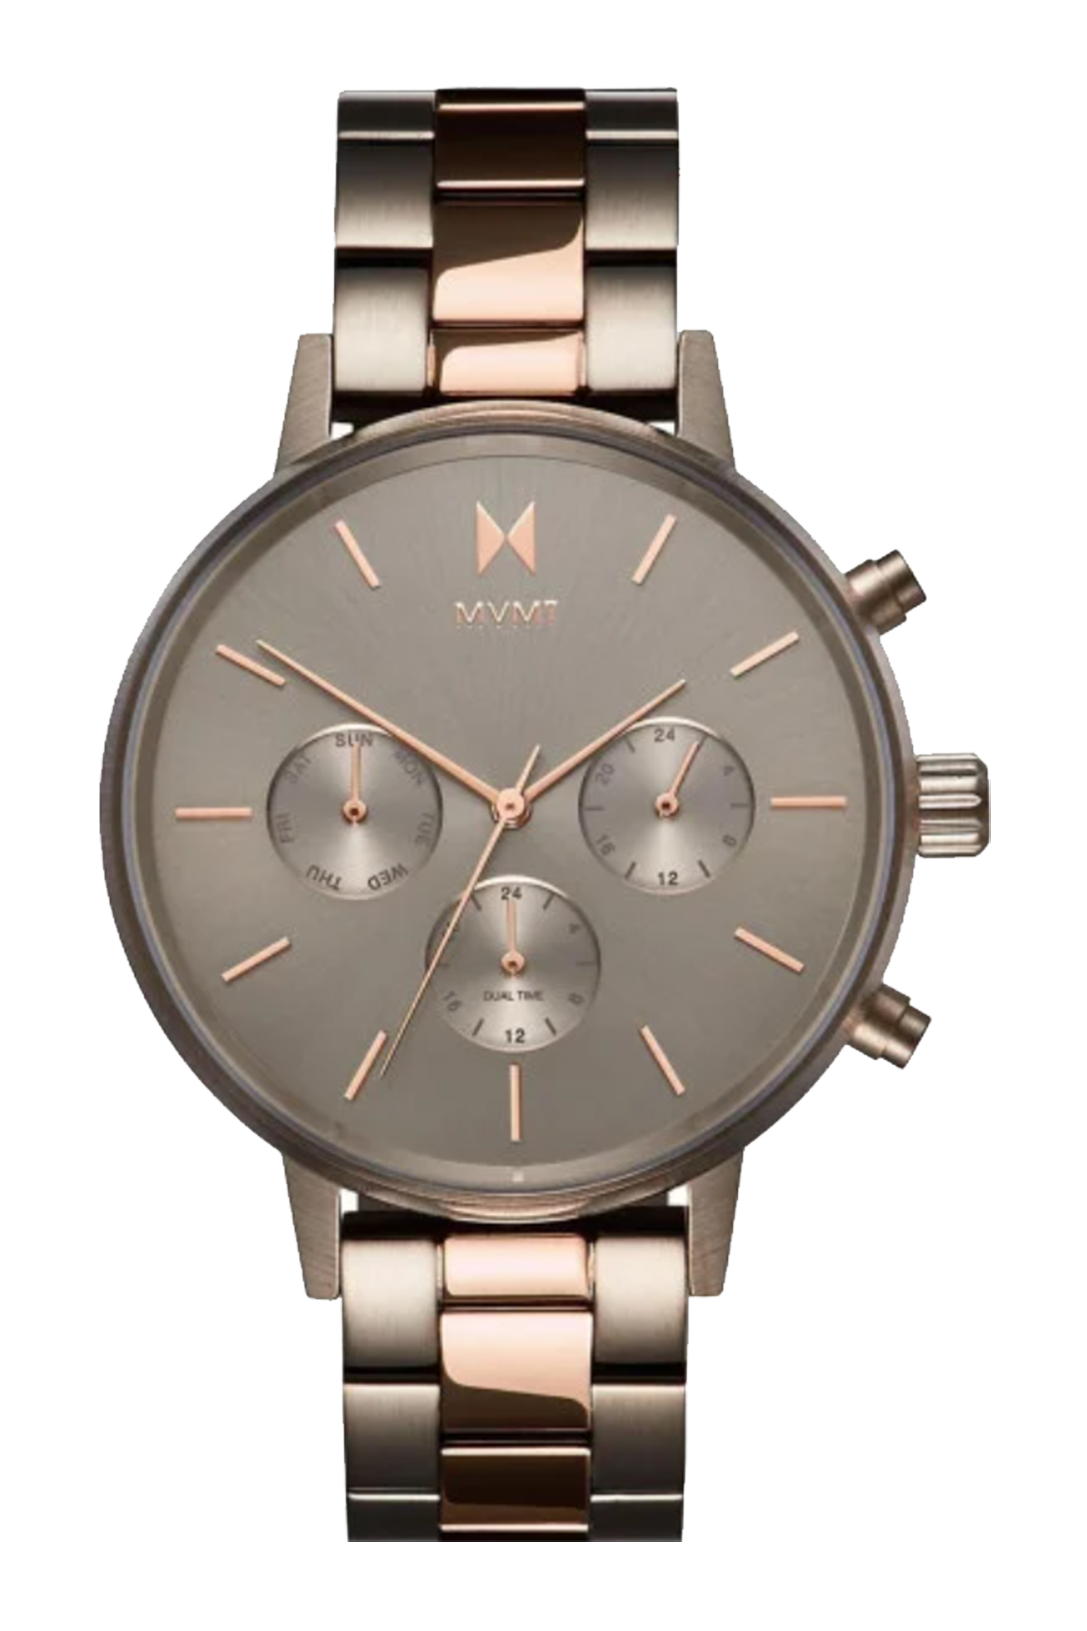
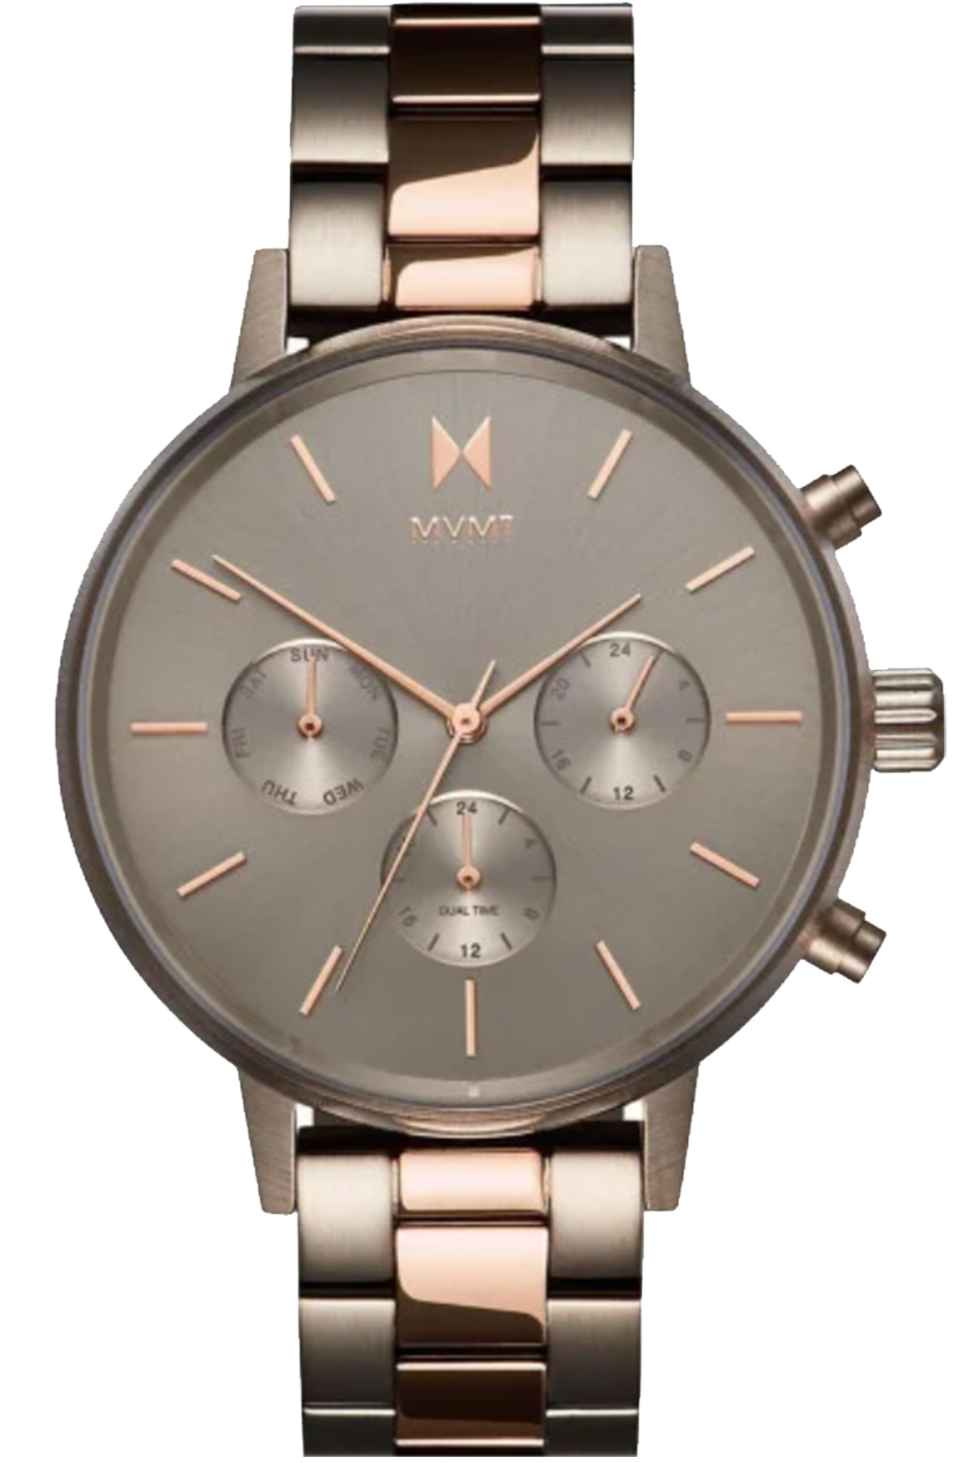
add respensive

diff --git a/src/App.jsx b/src/App.jsx
@@ -11,6 +11,9 @@ import wa from '../public/wa.jpg';
 import ri from '../public/ri.jpg';
 import { FontAwesomeIcon } from '@fortawesome/react-fontawesome';
 import { faChevronRight, faChevronLeft } from '@fortawesome/free-solid-svg-icons';
+import { faBars } from '@fortawesome/free-solid-svg-icons';
+import { faTimes } from '@fortawesome/free-solid-svg-icons';
+
 
 const App = () => {
     const [currentImageIndex, setCurrentImageIndex] = useState(0);
@@ -23,46 +26,40 @@ const App = () => {
     const handlePrevImage = () => {
         setCurrentImageIndex((prevIndex) => (prevIndex - 1 + watchImages.length) % watchImages.length);
     };
+    const [isNavOpen, setIsNavOpen] = useState(false);
+
+    const toggleNav = () => {
+        setIsNavOpen(!isNavOpen);
+    };
+
 
     return (
         <div className="min-h-screen bg-[#d1c9c1] flex flex-col items-center justify-center">
-            <header className="w-full max-w-screen-xl mx-auto flex justify-between items-center pt-8 pl-8 pr-8 pb-0">
-                <div className="text-2xl font-bold">MVMT™</div>
-                <nav className="space-x-14 text-base pr-8">
+            <header className="w-full max-w-screen-xl mx-auto flex flex-col sm:flex-row justify-between items-center pt-8 px-8 pb-0">
+                <div className="text-2xl font-bold mb-4 sm:mb-0">MVMT™</div>
+                <button onClick={toggleNav} className="sm:hidden">
+                    <FontAwesomeIcon icon={isNavOpen ? faTimes : faBars} size="lg" />
+                </button>
+                <nav className={`flex-col sm:flex-row sm:flex space-x-4 sm:space-x-14 text-base ${isNavOpen ? 'flex' : 'hidden'}`}>
                     <a href="#" className="hover:underline">Men</a>
                     <a href="#" className="hover:underline">Women</a>
                     <a href="#" className="hover:underline">Brand</a>
                 </nav>
             </header>
 
-            <main className="flex-1 w-full max-w-screen-xl mx-auto flex">
-                <div className="flex-1 flex flex-col justify-center text-left pl-8">
-                    <h1 className="text-[80px] font-light mb-2 text-[#534c46] text-left">Orion</h1>
-                    <p className="text-[#534c46] text-base mb-12 w-full max-w-[300px]">
-                        Rose gold second hand titanium and rose gold double plated stainless steel
-                    </p>
-                    <button className="flex items-center space-x-2 text-[#534c46] hover:text-gray-600 transition">
-                        <span className="text-base font-medium">Shop Now</span>
-                        <span>&rarr;</span>
-                    </button>
-                    <div className="flex items-center justify-start space-x-6 mt-20 mb-8">
-                        <button className="pr-6 py-2 text-[#534c46]">Rose</button>
-                        <button className="pr-6 py-2 text-[#333333]">Medium</button>
-                        <button className="pr-6 py-2 text-[#534c46]">Bronze</button>
-                    </div>
-                </div>
-
-                <div className="flex-1 flex justify-center space-x-8 items-center">
-                    <button onClick={handlePrevImage} className="bg-[#999087] px-4 py-2 rounded-full shadow-md hover:bg-[#333333]">
+            <main className="flex-1 w-full max-w-screen-xl mx-auto flex flex-col sm:flex-row">
+                <div className="flex-1 flex justify-center items-center space-x-4 sm:flex-2 sm:space-x-8 mb-8 sm:mb-0 order-1 sm:order-2">
+                    <button onClick={handlePrevImage} className="bg-[#999087] px-2 sm:px-4 py-2 rounded-full shadow-md hover:bg-[#333333]">
                         <FontAwesomeIcon icon={faChevronLeft} size="xs" style={{ color: "#ffffff" }} />
                     </button>
-                    <img src={watchImages[currentImageIndex]} alt="Watch" className="h-[350px] mb-8" />
-                    <button onClick={handleNextImage} className="bg-[#999087] px-4 py-2 rounded-full shadow-md hover:bg-[#333333]">
+                    <img src={watchImages[currentImageIndex]} alt="Watch" className="h-[250px] sm:h-[390px]" />
+                    <button onClick={handleNextImage} className="bg-[#999087] px-2 sm:px-4 py-2 rounded-full shadow-md hover:bg-[#333333]">
                         <FontAwesomeIcon icon={faChevronRight} size="xs" style={{ color: "#ffffff" }} />
                     </button>
                 </div>
 
-                <div className="flex-1 flex flex-col justify-center items-center text-sm text-[#534c46] gap-6">
+                
+                <div className="flex-1 flex flex-col justify-center items-center text-sm text-[#534c46] gap-2 sm:gap-6 order-2 sm:order-3">
                     <div className="flex justify-between w-full max-w-[200px]">
                         <h4>Case Size:</h4>
                         <h4>38 mm</h4>
@@ -72,9 +69,27 @@ const App = () => {
                         <h4>10 mm</h4>
                     </div>
                 </div>
+
+                
+                <div className="flex-1 flex flex-col justify-center text-left px-8 order-3 sm:order-1">
+                    <h1 className="text-[40px] sm:text-[80px] font-light mb-2 text-[#534c46]">Orion</h1>
+                    <p className="text-[#534c46] text-base mb-12 max-w-[300px]">
+                        Rose gold second hand titanium and rose gold double plated stainless steel
+                    </p>
+                    <button className="flex items-center space-x-2 text-[#534c46] hover:text-gray-600 transition">
+                        <span className="text-base font-medium">Shop Now</span>
+                        <span>&rarr;</span>
+                    </button>
+                    <div className="flex items-center justify-start space-x-6 mt-8 sm:mt-20 mb-8">
+                        <button className="py-2 text-[#534c46]">Rose</button>
+                        <button className="py-2 text-[#333333]">Medium</button>
+                        <button className="py-2 text-[#534c46]">Bronze</button>
+                    </div>
+                </div>
             </main>
 
-            <footer className="w-full max-w-screen-xl mx-auto p-6 bg-[#333333] text-white flex justify-between">
+
+            <footer className="w-full max-w-screen-xl mx-auto p-6 bg-[#333333] text-white flex flex-col sm:flex-row justify-between space-y-4 sm:space-y-0">
                 <div className="flex items-center space-x-4 mx-8">
                     <img src={ci} alt="Free Gift Box" className="w-14 h-14" />
                     <div>
